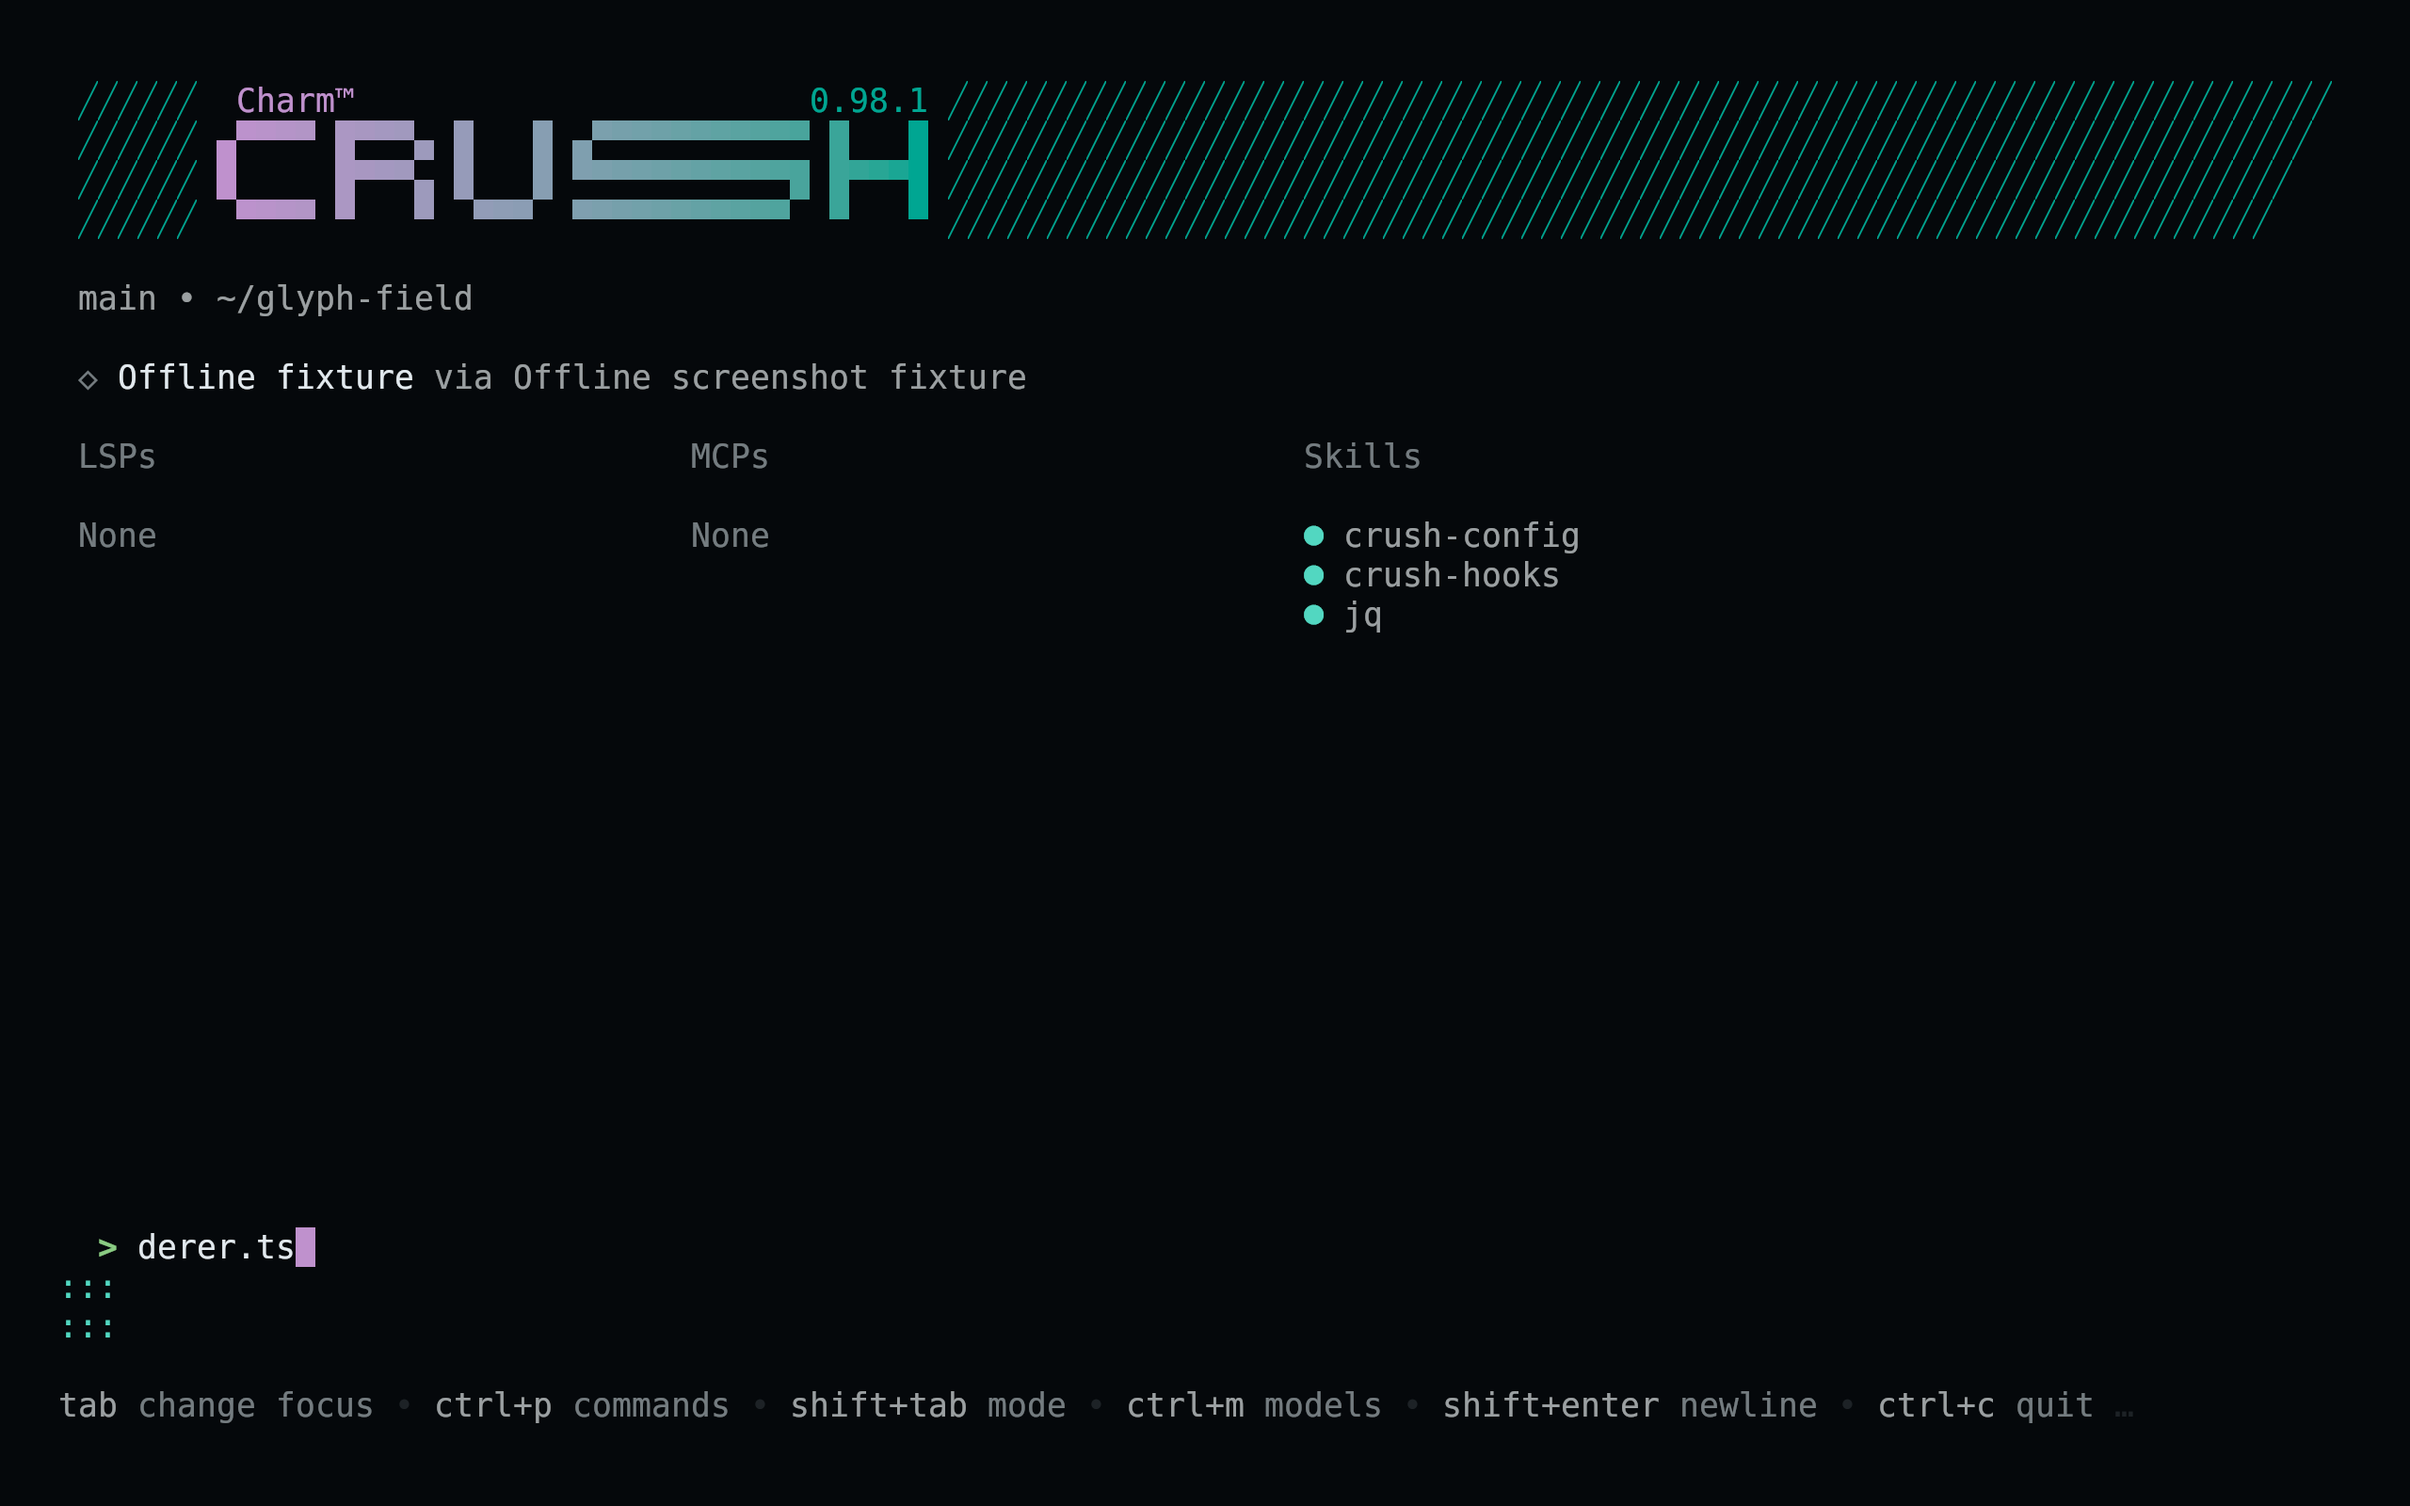
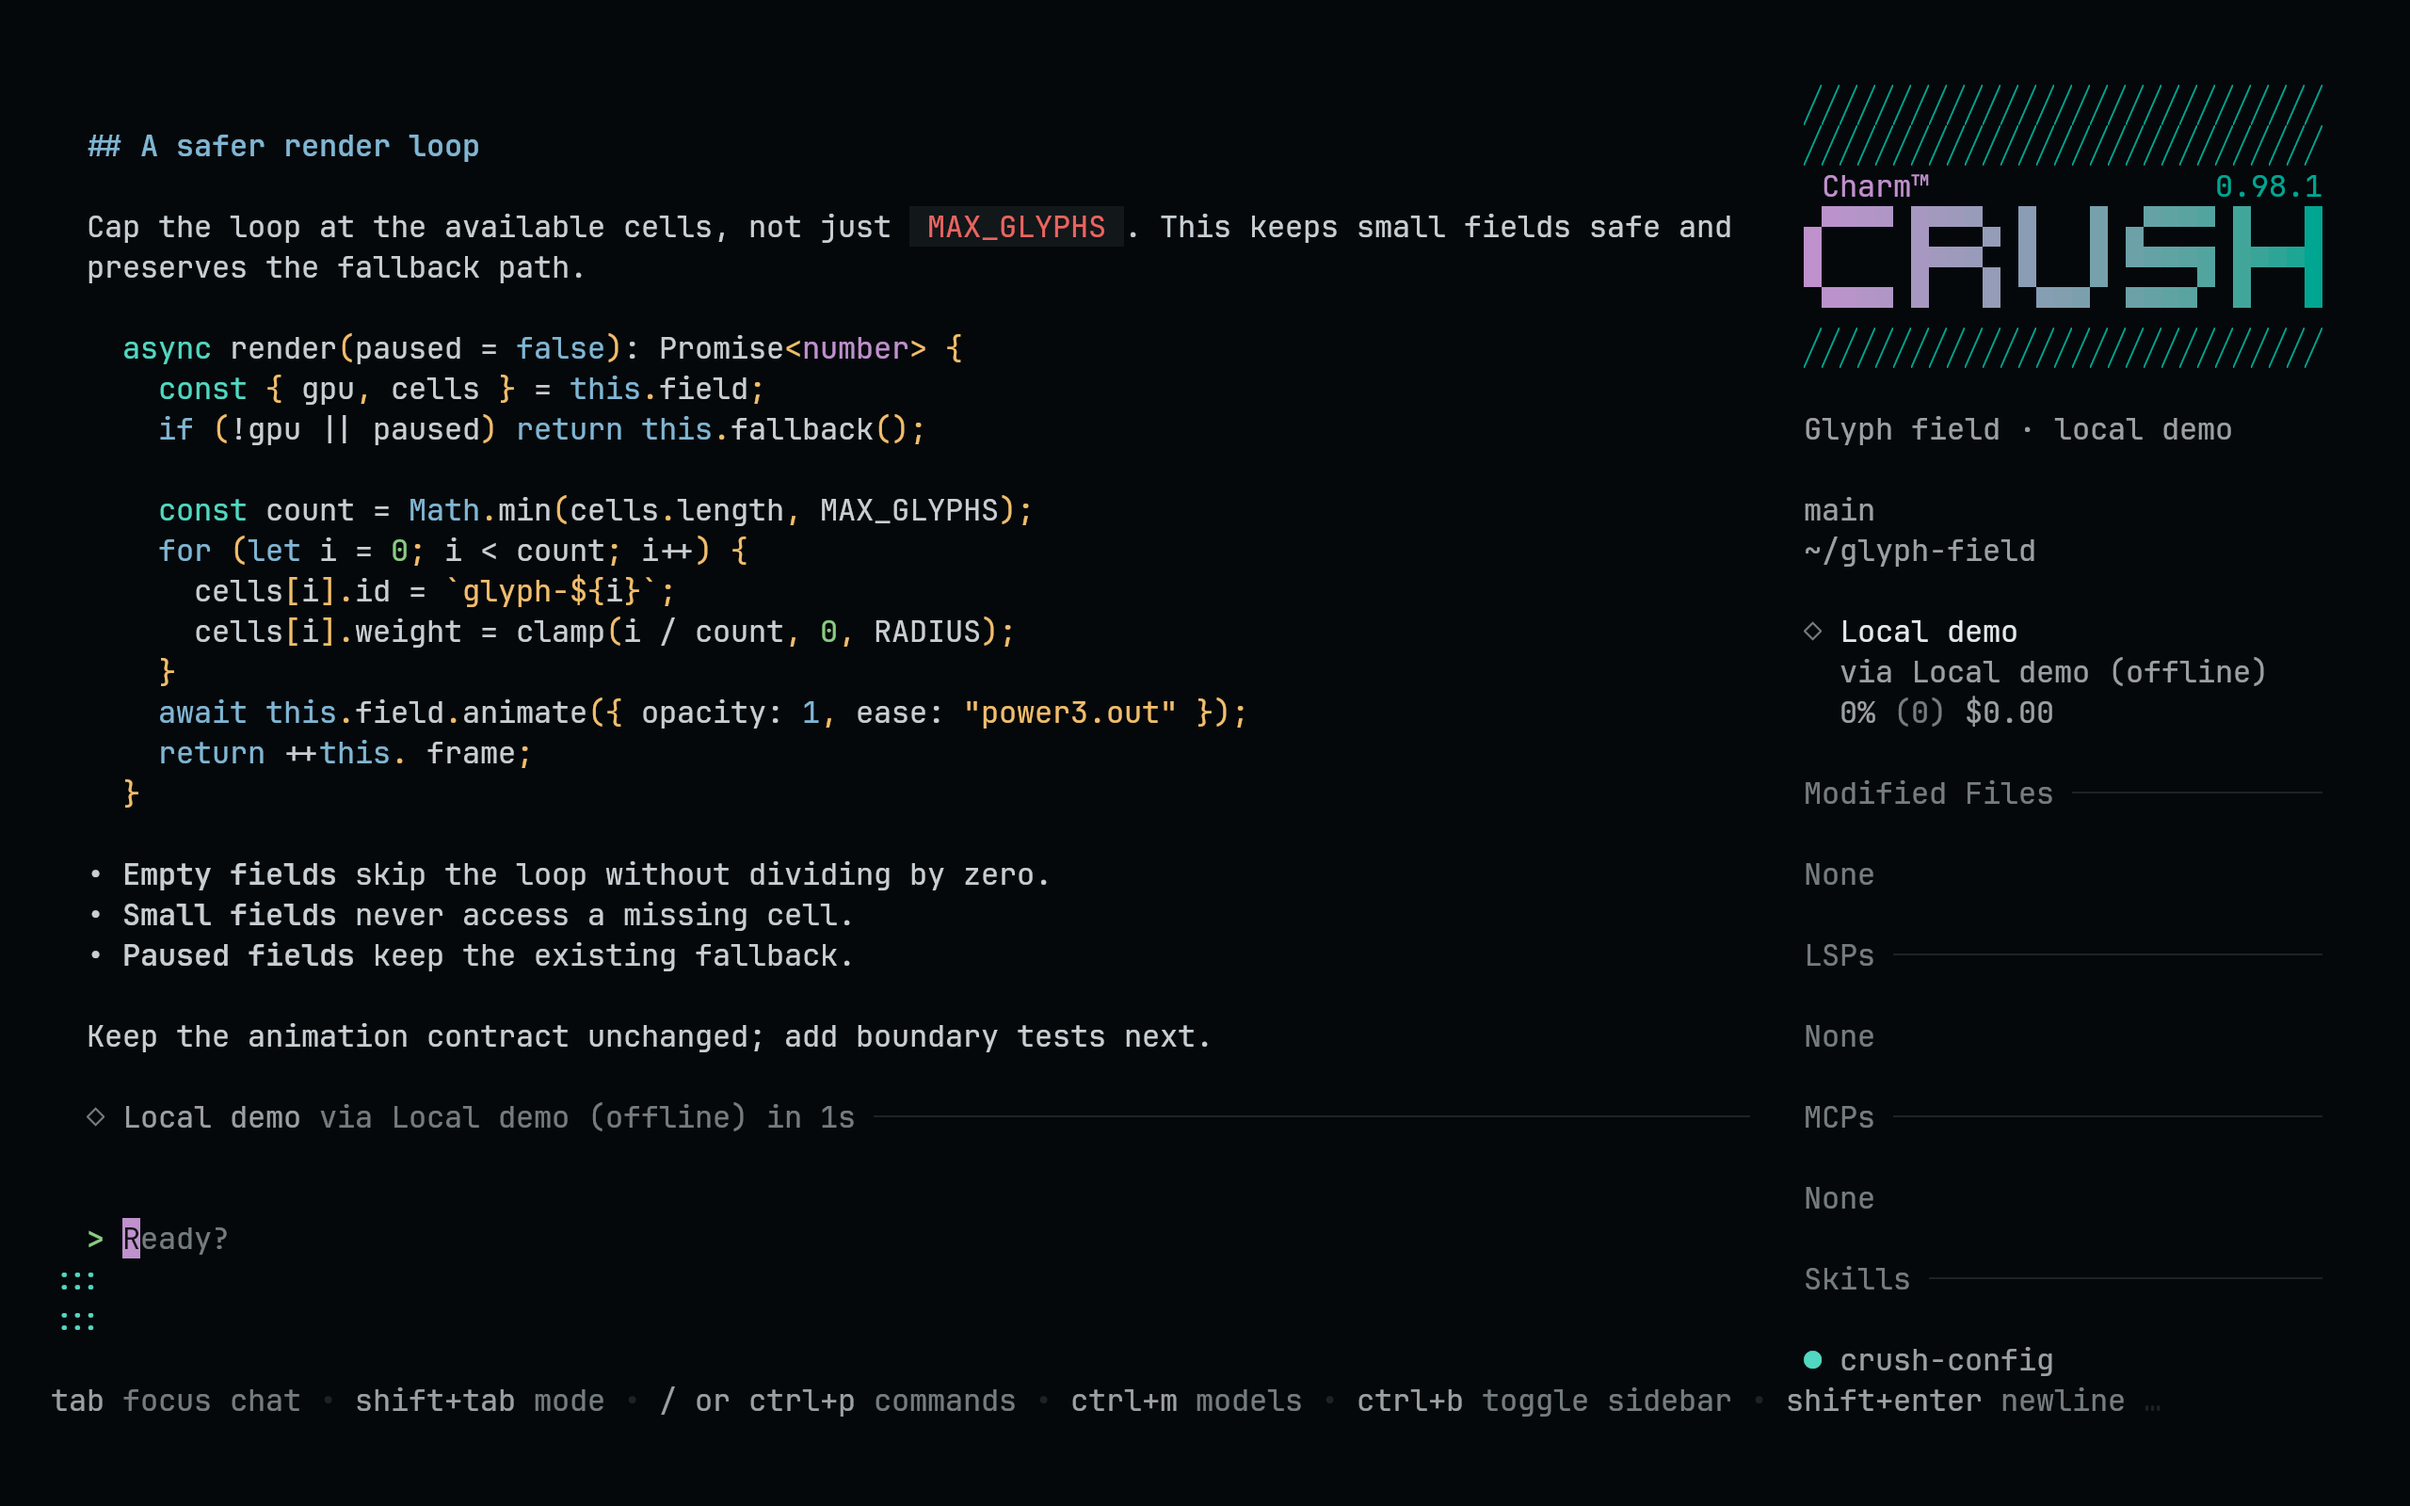
feat: refresh native review previews and verify syntax roles

diff --git a/capture/app.py b/capture/app.py
@@ -1,5 +1,9 @@
-"""Capture Crush's native themed workspace without starting an agent turn."""
+"""Resume a labeled demo in Crush's real themed conversation UI, offline."""
 import json
+import sqlite3
+
+
+SESSION = 'a40d1e4c-1150-4000-8000-000000000030'
 
 
 def prepare(c):
@@ -7,18 +11,40 @@ def prepare(c):
     c.copy(f'themes/{c.slug}.json', f'.config/crush/themes/{c.slug}.json')
     config = {'options': {'tui': {'active_theme': c.slug}, 'disable_provider_auto_update': True,
                           'disable_metrics': True, 'disable_default_providers': True},
-              'providers': {'capture': {'name': 'Offline screenshot fixture', 'type': 'openai-compat',
+              'providers': {'capture': {'name': 'Local demo (offline)', 'type': 'openai-compat',
                   'base_url': 'http://127.0.0.1:9/v1', 'api_key': 'capture-not-a-real-key',
-                  'models': [{'id': 'fixture', 'name': 'Offline fixture', 'context_window': 128000, 'default_max_tokens': 4096}]}},
-              'models': {'large': {'model': 'fixture', 'provider': 'capture'},
-                         'small': {'model': 'fixture', 'provider': 'capture'}}}
+                  'models': [{'id': 'local-demo', 'name': 'Local demo', 'context_window': 128000, 'default_max_tokens': 4096}]}},
+              'models': {'large': {'model': 'local-demo', 'provider': 'capture'},
+                         'small': {'model': 'local-demo', 'provider': 'capture'}}}
     c.write('.config/crush/crush.json', json.dumps(config))
     c.env['CRUSH_GLOBAL_CONFIG'] = str(c.home / '.config/crush')
-    return ['crush']
+    # Let the pinned application create/migrate its own disposable database first.
+    c.run(['crush', 'session', 'list', '--json'])
+    c.write('glyph-field/.crush/init', '')
+    database = c.work / '.crush/crush.db'
+    if not database.is_file():
+        raise RuntimeError('Crush did not initialize its local session store')
+    timestamp = 1767268800
+    with sqlite3.connect(database) as db:
+        db.execute('INSERT INTO sessions (id, title, created_at, updated_at) VALUES (?, ?, ?, ?)',
+                   (SESSION, 'Glyph field · local demo', timestamp, timestamp))
+        for index, role, text in (
+            (1, 'user', 'Review the glyph render loop and suggest a safer implementation. (Local demo)'),
+            (2, 'assistant', (c.root / 'capture/review.md').read_text()),
+        ):
+            parts = [{'type': 'text', 'data': {'text': text}}]
+            if role == 'assistant':
+                parts.append({'type': 'finish', 'data': {'reason': 'end_turn', 'time': timestamp + index}})
+            db.execute('''INSERT INTO messages
+                (id, session_id, role, parts, model, provider, created_at, updated_at, finished_at)
+                VALUES (?, ?, ?, ?, ?, ?, ?, ?, ?)''',
+                (f'demo-{index}', SESSION, role, json.dumps(parts), 'local-demo', 'capture',
+                 timestamp + index, timestamp + index, timestamp + index))
+    return ['crush', '--session', SESSION]
 
 
 def drive(c):
-    c.wait_text(r'ctrl\+p|New Session|New Chat|Welcome to Crush|trust this')
+    c.wait_text(r'add boundary tests next|trust this')
     if 'trust' in c.text().lower():
         c.key('enter')
-    c.type('Review src/FieldRenderer.ts')  # Do not submit; capture the actual input UI.
+    c.wait_text(r'add boundary tests next')

diff --git a/scripts/capture.py b/scripts/capture.py
@@ -185,7 +185,7 @@ export class FieldRenderer {
         role = lambda name: colors[self.flavor['roles'][name]]['hex']
         options = {'linux_display_server': 'x11', 'hide_window_decorations': 'yes', 'remember_window_size': 'no',
                    'initial_window_width': str(WIDTH), 'initial_window_height': str(HEIGHT),
-                   'font_family': 'DejaVu Sans Mono', 'font_size': '26', 'window_padding_width': '24',
+                   'font_family': 'JetBrains Mono', 'font_size': '24', 'window_padding_width': '24',
                    'cursor_blink_interval': '0', 'enable_audio_bell': 'no', 'allow_remote_control': 'yes',
                    'background': role('bg'), 'foreground': role('fg'), 'cursor': role('cursor'),
                    'selection_background': role('selection'), 'selection_foreground': role('fg')}

diff --git a/README.md b/README.md
@@ -109,7 +109,9 @@ The files specify every public `Palette` field and do not rely on an unrelated b
 
 Requires a Crush release supporting standalone JSON theme files and `options.tui.active_theme`. This API was verified against the source revision recorded in `test/fixtures/upstream.json`; older builds without custom themes need an update. The field contract is extracted from Crush’s own palette implementation. No custom providers or credentials are installed.
 
-Previews are captured programmatically from the actual application in an isolated profile. See [`capture/app.py`](capture/app.py) for the app-owned recipe and [`images/capture.json`](images/capture.json) for runtime, palette and image provenance. No mock interface is drawn.
+**Syntax limitation:** Crush derives Chroma styles from shared UI palette fields in `internal/ui/styles/quickstyle.go`, rather than accepting independent code roles. In particular, strings and punctuation share `warningSubtle`, while numbers use `success`. Neovim assigns those roles different colors, so a stock Crush palette cannot reproduce all its syntax mappings without breaking other roles. The current port supplies Living Code colors but does not claim exact Neovim syntax parity. Exact parity needs an upstream syntax-style API.
+
+Previews are captured programmatically from the actual application in an isolated profile. See [`capture/app.py`](capture/app.py) for the app-owned recipe and [`images/capture.json`](images/capture.json) for runtime, palette and image provenance. No mock interface is drawn. The conversation is a labeled, repository-owned local demo, not a private session or a live model response. Recapturing needs no account, subscription or paid API call.
 
 ## Contributing
 

diff --git a/capture/review.md b/capture/review.md
@@ -1,0 +1,25 @@
+## A safer render loop
+
+Cap the loop at the available cells, not just `MAX_GLYPHS`.
+This keeps small fields safe and preserves the fallback path.
+
+```typescript
+async render(paused = false): Promise<number> {
+  const { gpu, cells } = this.field;
+  if (!gpu || paused) return this.fallback();
+
+  const count = Math.min(cells.length, MAX_GLYPHS);
+  for (let i = 0; i < count; i++) {
+    cells[i].id = `glyph-${i}`;
+    cells[i].weight = clamp(i / count, 0, RADIUS);
+  }
+  await this.field.animate({ opacity: 1, ease: "power3.out" });
+  return ++this.#frame;
+}
+```
+
+- **Empty fields** skip the loop without dividing by zero.
+- **Small fields** never access a missing cell.
+- **Paused fields** keep the existing fallback.
+
+Keep the animation contract unchanged; add boundary tests next.
